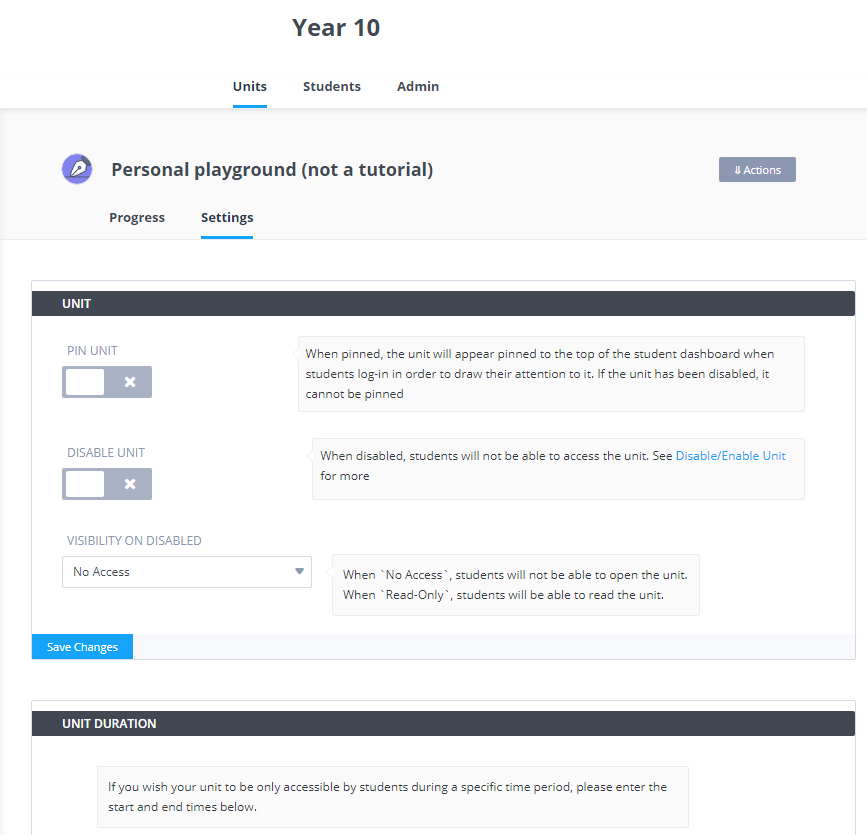
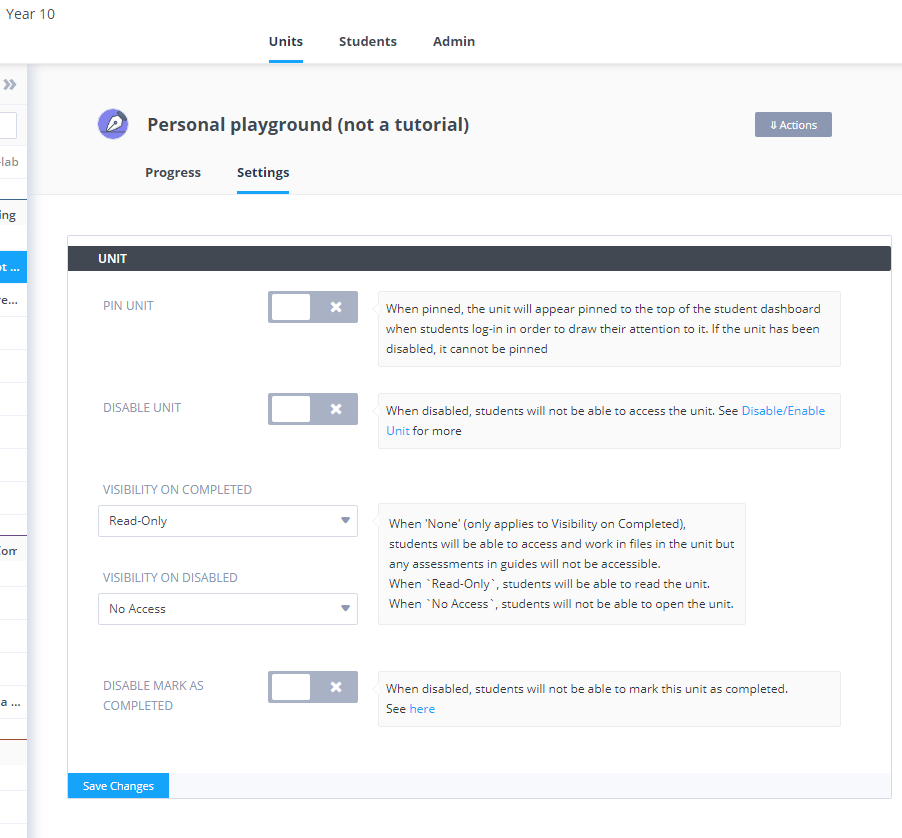
changelog #9969

diff --git a/source/docs/classes/unitmanagement/settings.html.md b/source/docs/classes/unitmanagement/settings.html.md
@@ -74,8 +74,21 @@ The following options are available only in the **Settings** tab.
 Disabling will not allow students to mark the unit as completed. If units in your class are of a 'playground' type where you allow students to experiment with their code, this can be useful to disable to avoid them completing the unit in error and then having to ask the class teacher/instructor to change the status back so they can continue working.
 If your unit contains guides content, you should also disable the option to show Mark as Completed button in guides. See [Global settings](/docs/content/authoring/settings-actions/global/) for more on this.
 
+<a name="visibilitycomplete"></a>
+### Visibility on completed
+You can specify the students ability to access the unit when completed. **Not available for book based units**
+
+- 'None' will allow students to continue to access and work in code files, any assessments in the unit can be seen but not changed, 
+- 'Read-Only' will allow students to access their unit but not make any changes. 
+- 'No Access' will not allow the students to access their unit.
+
 ### Visibility on disabled
-You can specify whether a unit is accessible or not when disabled. 
+You can specify the students ability to access the unit when disabled.  **Not available for book based units**
+
+- 'Read-Only' will allow students to access their unit but not make any changes. 
+- 'No Access' will not allow the students to access their unit.
+
+
 
 ### Unit duration
 [Unit duration](/docs/classes/unitmanagement/settings-info/unit-duration) allows you to specify start and stop times for student access to a unit. For book units, you should read the caveats mentioned in the **Disable unit** setting above.

diff --git a/source/docs/misc/changelog.html.md b/source/docs/misc/changelog.html.md
@@ -13,6 +13,7 @@ We do not report small bug fixes or issues that affect individual users, who we 
 
 **December 2018**
 
+- `[I] [17th]`: Add setting to manage students access to project based units when [completed](/docs/classes/unitmanagement/settings#visibilitycomplete)
 - `[I] [14th]`: Fix problem with [event listener](/docs/content/authoring/page-edit/buttons#eventlistener)
 - `[I] [14th]`: Add jupyter preview to student's grade feedback preview
 - `[I] [14th]`: Improve guides for visually impaired users
